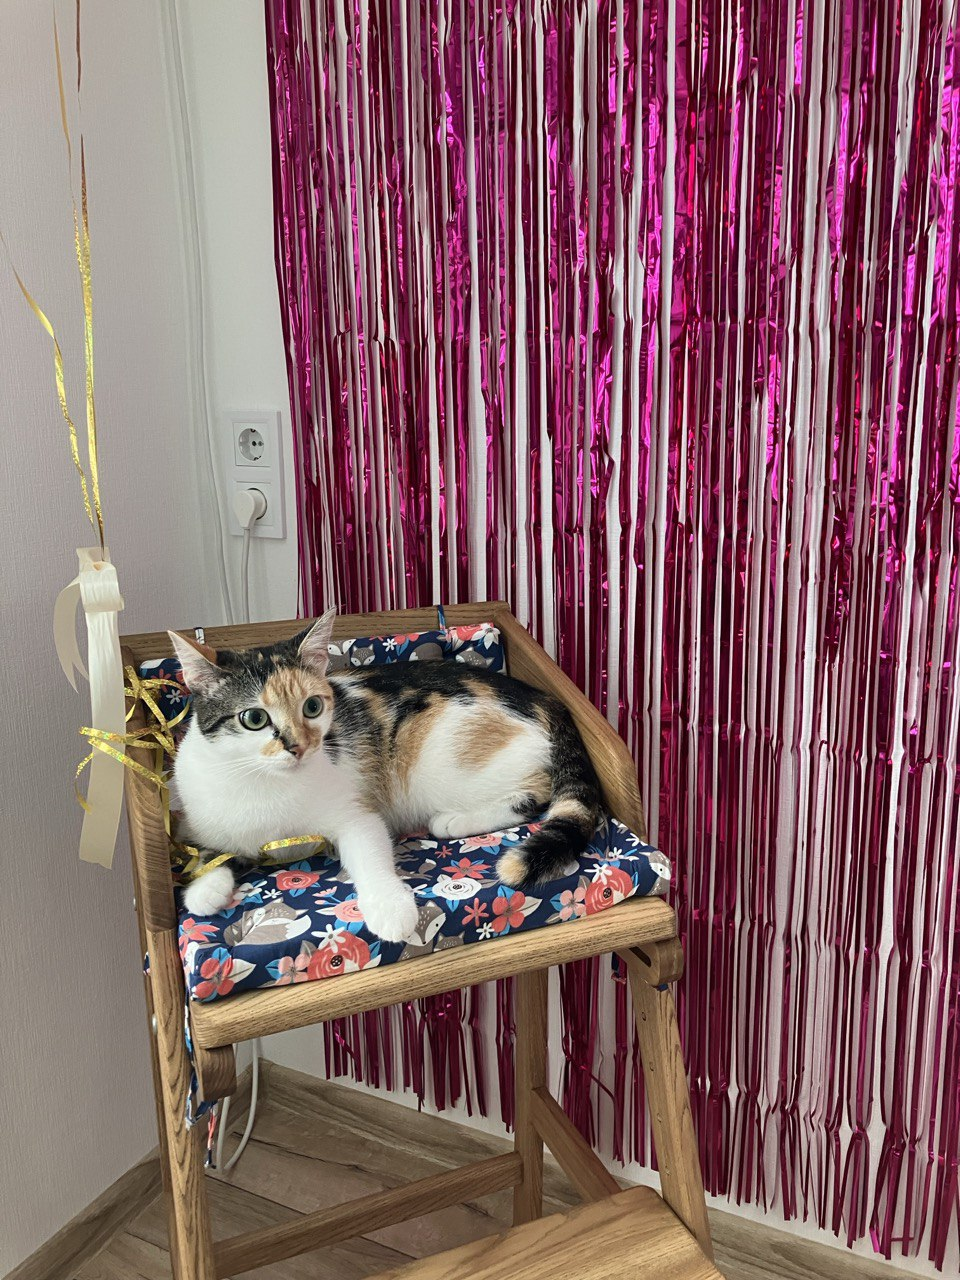
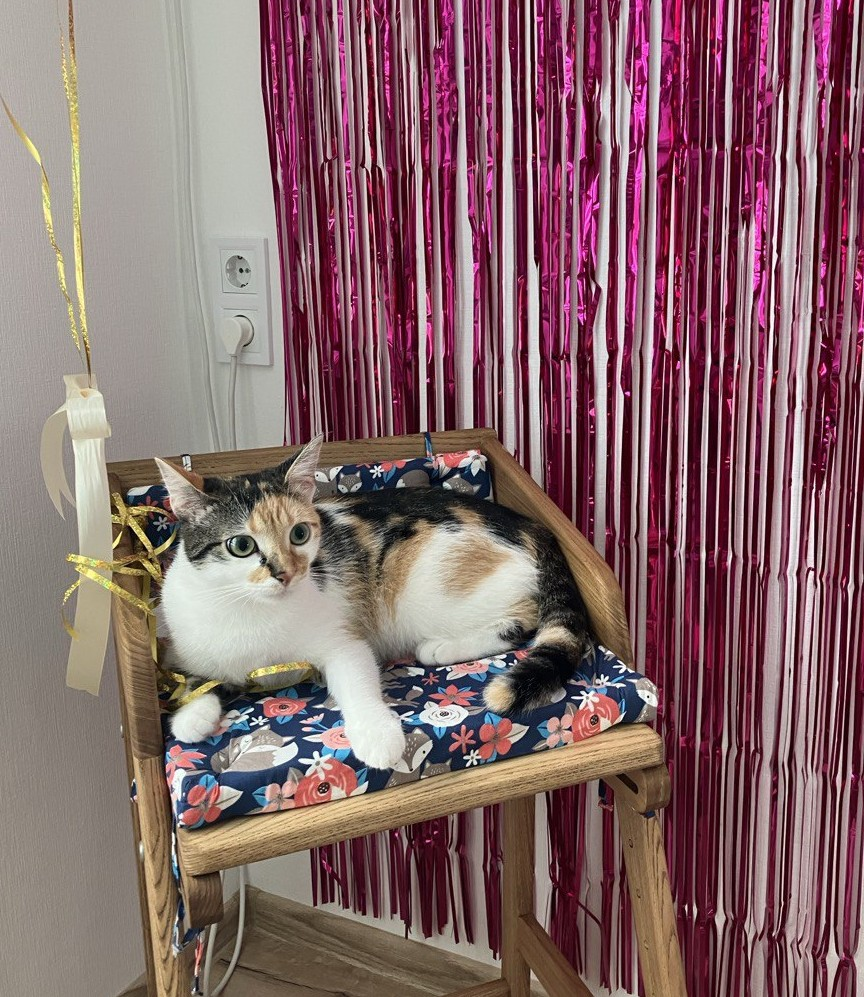
add css

diff --git a/pages/gallery.html b/pages/gallery.html
@@ -2,6 +2,7 @@
 <html>
 <head>
     <title>Gallery</title>
+    <link href="../style.css" rel="stylesheet">
 </head>
 <body>
     <header>
@@ -13,16 +14,26 @@
     </header>
     <br><br>
     <h2>Перші фото Айви вдома</h2>
-    <picture>
-       <img src="../fotos/Iva's first photos at home.jpg" alt="Перші фото Айви" height="300" width="400">
-       <img src="../fotos/Iva's sweet sleep.jpg" alt="Перші фото Айви" height="300" width="400">
-       <img src="../fotos/Iva plays.jpg" alt="Перші фото Айви" height="300" width="400">
+    <picture class="gallery">
+        <a target="_blank" href="../fotos/Iva's first photos at home.jpg">
+          <img src="../fotos/Iva's first photos at home.jpg" alt="Перші фото Айви" height="300" width="400">
+       </a>
+       <a target="_blank" href="../fotos/Iva's sweet sleep.jpg">
+          <img src="../fotos/Iva's sweet sleep.jpg" alt="Перші фото Айви" height="300" width="400">
+       </a>
+       <a target="_blank" href="../fotos/Iva plays.jpg">
+          <img src="../fotos/Iva plays.jpg" alt="Перші фото Айви" height="300" width="400">
+       </a>
     </picture>
     <br><br>
     <h2>Така Айва зараз</h2>
-    <picture>
-        <img src="../fotos/Iva is 1 year old.jpg" alt="Перші фото Айви" height="300" width="250">
-        <img src="../fotos/Iva has grown up.jpg" alt="Перші фото Айви" height="300" width="400">
+    <picture class="gallery2">
+         <a target="_blank" href="../fotos/Iva is 1 year old.jpg">
+           <img src="../fotos/Iva is 1 year old.jpg" alt="Перші фото Айви" height="300" width="350">
+        </a>
+        <a target="_blank" href="../fotos/Iva has grown up.jpg">
+           <img src="../fotos/Iva has grown up.jpg" alt="Перші фото Айви" height="300" width="400">
+        </a>
     </picture>
 </body>
 <footer>

diff --git a/index.html b/index.html
@@ -2,6 +2,7 @@
 <html>
 <head>
     <title>About Iva</title>
+    <link href="./style.css" rel="stylesheet">
 </head>
 <body>
     <header>
@@ -11,13 +12,16 @@
             <a href="./pages/gallery.html">Gallery</a>
         </nav>
     </header>
+   
     <h1>Айва - моя домашня улюблениця</h1>
-    <img src="./fotos/Iva is 1 year old.jpg" alt="Фото Айви" height="650" width="500"><br>
-    <p>Ми її забрали з притулку у вересні 2024 року, коли їй було лише 2 місяці. 
-        <br>Вона разом із своєю мамою та іншими кошинятами була врятована військовими.
-        <br>Кицюня зразу припала до сердця усій родині, особливо малечі.
-        <br>З нами вона вже понад рік і є частиною нашої родини.
-    </p>
+    <div id="block">
+        <img id="fotoIva" src="./fotos/Iva is 1 year old.jpg" alt="Фото Айви" height="550" width="400">
+        <p>Ми її забрали з притулку у вересні 2024 року, коли їй було лише 2 місяці. 
+            Вона разом із своєю мамою та іншими кошинятами була врятована військовими. 
+            Кицюня зразу припала до сердця усій родині, особливо діткам.
+            З нами вона вже понад рік і є частиною нашої родини.
+        </p> 
+    </div>
 </body>
 <footer>
     <p>Author: Anastasiia Varchak</p>

diff --git a/style.css b/style.css
@@ -1,0 +1,77 @@
+header{
+    font-family: 'Courier New', Courier, monospace;
+    font-size: large;
+    background-color: rgb(241, 222, 239);
+    border: 1px solid rgb(184, 86, 241);
+    padding: 15px;
+    text-align: center;
+}
+h1{
+    font-family: 'Courier New', Courier, monospace;
+    color: rgb(66, 7, 27);
+    text-align: center;
+}
+nav a {
+    display: inline-block;
+    color: #530a3d;
+    padding: 14px 16px;
+    text-decoration: none;
+}
+#fotoIva{
+     border-style: none;
+     margin: none;
+     padding: none;
+     object-fit: contain;
+     clip-path: circle(40%);
+     shape-outside: circle(45%);
+    
+}
+p{
+    font-family: 'Courier New', Courier, monospace;
+    font-size: large;
+    font-weight: 200;
+    margin: none;
+    line-height: 2; 
+  
+}
+#block{
+     display: flex;
+     align-items: center;
+     gap: 10px; 
+     border: 1px solid rgb(107, 11, 99);
+     padding: 10px;
+    
+}
+#block2{
+     display: flex;
+     align-items: center;
+     gap: 10px; 
+     padding: 20px;
+     margin: 20px;
+
+}
+address{
+     padding: 20px;
+     line-height: 2; 
+     padding: 20px;
+     margin: 20px;
+     margin-bottom: 250px;
+     font-size: large;
+
+}
+.gallary{
+     display: flex;
+     flex-wrap: wrap;
+     justify-content: flex-start;
+}
+.gallary2{
+     display: flex;
+     flex-wrap: wrap;
+     justify-content: flex-start;
+}
+footer{
+    font-family: 'Courier New', Courier, monospace;
+    text-align: center; 
+    
+   
+}

diff --git a/pages/contact.html b/pages/contact.html
@@ -2,6 +2,7 @@
 <html>
 <head>
         <title>Contact</title>
+        <link href="../style.css" rel="stylesheet">
 </head>
 <body>
     <header>
@@ -11,12 +12,11 @@
             <a href="./gallery.html">Gallery</a>
         </nav>
     </header>
-    <br><br>
+    <div id="block2">
     <p>Якщо цікавить додаткова інформація щодо нашої Кицюню, то без вагань звертайтеся:)</p>
-    <br><br>
-    <address>Email: nastya.v.bobyr@gmail.com <br> tel:+380502218340
+    </div>
+    <address><b>Email:</b> nastya.v.bobyr@gmail.com <br> <b>Tel:</b>+380502218340
     </address>
-    <br><br><br><br>
     
 </body>
 <footer>
